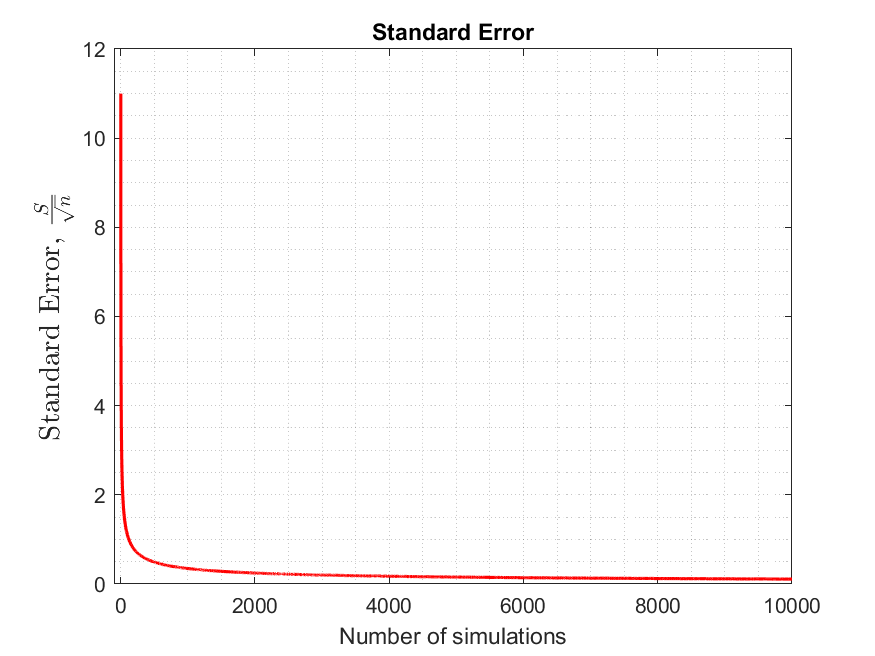
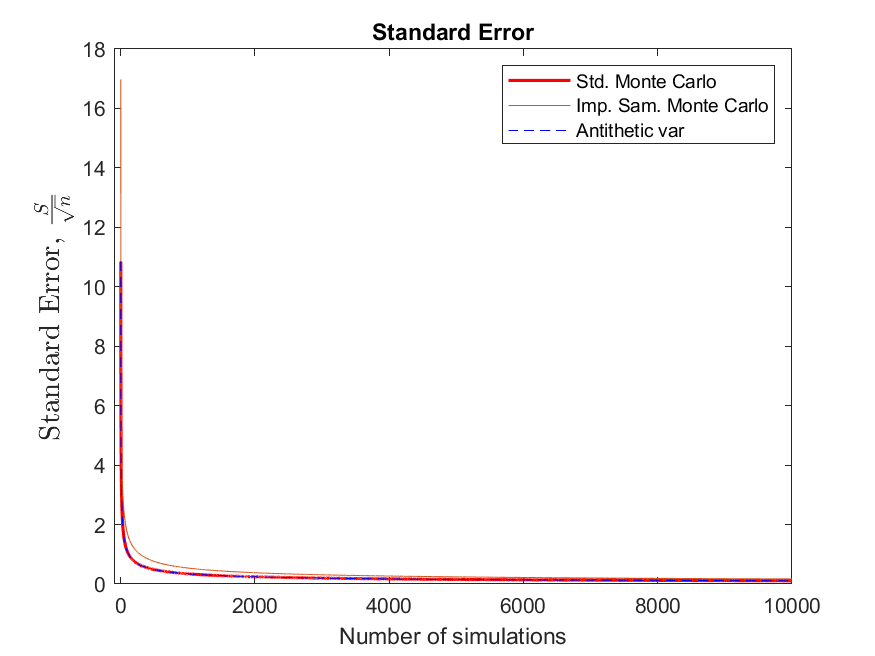
European put option monte carlo

Changed region(s): [[0.0926, 0.122, 0.8949, 0.9146], [0.5863, 0.0915, 0.8949, 0.2134], [0.0926, 0.061, 0.1234, 0.0915]]

diff --git a/Project 1/European Option/Standard European Put/Eu_Put_Monte_Carlo.m b/Project 1/European Option/Standard European Put/Eu_Put_Monte_Carlo.m
@@ -1,4 +1,7 @@
+%OPTION PARAMETERS%
 S=100;K=100;r=0.07;sig=0.25;T=1;N=10^4;
+
+%STANDARD MONTE CARLO APPROACH
 Y=randn(1,N);
 Z=zeros(1,N);%for S_T
 W=zeros(1,N);%for (S_T-K)^+
@@ -6,7 +9,7 @@ for k=1:N
     Z(k)=S*exp((r-0.5*sig^2)*T+sig*sqrt(T)*Y(k));    
     W(k)=max(-Z(k)+K,0);
 end
-U=zeros(1,N);%for \bar f
+U=zeros(1,N);
 U(1)=W(1);
 for k=2:N    
     U(k)=U(k-1)+W(k);
@@ -14,22 +17,90 @@ end
 stderror=zeros(1,N);
 for k=1:N    
     U(k)=exp(-r*T)*U(k)/k;
-    stderror(k)=std(W)/sqrt(k);
+    stderror(k)=std(W)/sqrt(k); %Check the standard error of the payoff at each timestep
 end
 figure(1)
-plot(1:N,U,'-b')
+plot(1:N,U,'-b','DisplayName','Std. Monte Carlo')
 xlabel('Number of simulations')
 ylabel('Price of European Put Option')
 title('Monte Carlo Convergence Diagram')
-grid minor
-xlim([-100 inf])
-saveas(gcf,'EU_Put_MC_Convergence','png')
+%grid minor
+hold on
 
 figure(2)
-plot(1:N,stderror,'-r','LineWidth',1.5)
+plot(1:N,stderror,'-r','LineWidth',1.5,'DisplayName','Std. Monte Carlo')
 xlabel('Number of simulations')
 ylabel('Standard Error, $\frac{S}{\sqrt{n}}$','Interpreter','latex','FontSize',14)
 title('Standard Error')
-grid minor
+%grid minor
 xlim([-100 inf])
+hold on
+
+clear all
+%OPTION PARAMETERS%
+S=100;K=100;r=0.07;sigma=0.25;T=1;N=10^4;
+%IMPORTANCE SAMPLING MONTE CARLO APPROACH
+beta=-log(K/S)-(r-0.5*sigma^2)*T\sigma\sqrt(T);
+Y=randn(1,N);
+W=zeros(1,N);
+for k=1:N
+    W(k)=max(S*exp((r-0.5*sigma^2)*T+sigma*sqrt(T)*(Y(k)-beta))-K,0)*exp(beta*Y(k)-0.5*beta^2);
+end 
+U=zeros(1,N);
+U(1)=W(1);
+for k=2:N
+    U(k)=U(k-1)+W(k);
+end
+stderror=zeros(1,N);
+for k=1:N
+    U(k)=exp(-r*T)*U(k)/k;
+    stderror(k)=std(W)/sqrt(k);
+end
+figure(1)
+plot(1:N,U,'DisplayName','Imp. Sam. Monte Carlo')
+hold on
+
+figure(2)
+plot(1:N,stderror,'DisplayName','Imp. Sam. Monte Carlo')
+hold on
+
+clear all
+%OPTION PARAMETERS%
+S=100;K=100;r=0.07;sigma=0.25;T=1;N=10^4;
+%VARIANCE REDUCTION MONTE CARLO APPROACH
+N=10^4;
+Y=randn(1,N); %brownian motion random term
+Z=zeros(1,N); %to compute Y2
+V=zeros(1,N); %to compute Y1
+W=zeros(1,N); %to compute the payoff as an unbiased estimator
+
+for k=1:N
+    Z(k)=S*exp((r-0.5*sigma^2)*T+sigma*sqrt(T)*Y(k));
+    V(k)=S*exp((r-0.5*sigma^2)*T+sigma*sqrt(T)*Y(k));
+    W(k)=0.5*(max(K-Z(k),0)+max(K-V(k),0));
+end 
+U=zeros(1,N);
+U(1)=W(1);
+for k=2:N
+    U(k)=U(k-1)+W(k);
+end 
+stderror=zeros(1,N);
+for k=1:N
+    U(k)=exp(-r*T)*U(k)/k;
+    stderror(k)=std(W)/sqrt(k);
+end 
+
+figure(1)
+plot(1:N,U,'DisplayName','Antithetic var')
+hold on
+figure(1)
+yline(BSExact(S,K,r,sigma,T),'-.r','','LineWidth',0.5,'DisplayName','Black-Scholes Exact')
+legend
+hold off
+saveas(gcf,'EU_Put_MC_Convergence','png')
+
+figure(2)
+plot(1:N,stderror,'--b','DisplayName','Antithetic var')
+legend
+hold off
 saveas(gcf,'EU_Put_MC_stderr','png')

diff --git a/Project 1/European Option/Standard European Put/BSExact.m b/Project 1/European Option/Standard European Put/BSExact.m
@@ -1,0 +1,34 @@
+function [put, call] = BSExact(S, K, r, sigma, T)
+%FuncName: BSExact.m
+%Description: this computes the exact value of European options in the
+%Black Scholes model
+%
+%---------
+%ARGUMENTS
+%
+% - S: the initial price of the stock
+% - K: the strike price in the option contract
+% - r: the risk-free interest rate on the option contract
+% - sigma: volatilty of the option price
+% - T: the time to expiry (matutiry) of the option contract
+%
+%---------
+%OUTPUTS
+%
+% put: the price of a European put option in the Black Scholes Model
+% call: the price of a European call option in the Black Scholes Model
+%---------
+
+d1 = (log(S/K) + (r + 0.5*sigma^2)*T)/(sigma*sqrt(T));
+d2 = d1 - sigma*sqrt(T);
+N1p = 0.5*(1+erf(-1*d1/sqrt(2)));
+N2p = 0.5*(1+erf(-1*d2/sqrt(2)));
+N1c = 0.5*(1+erf(d1/sqrt(2)));
+N2c = 0.5*(1+erf(d2/sqrt(2)));
+
+%Put option exact price
+put = K.*exp(-r*T).*N2p - S.*N1p;
+
+%Call option exact price
+call = S.*N1c - K.*exp(-r*T).*N2c;
+end
